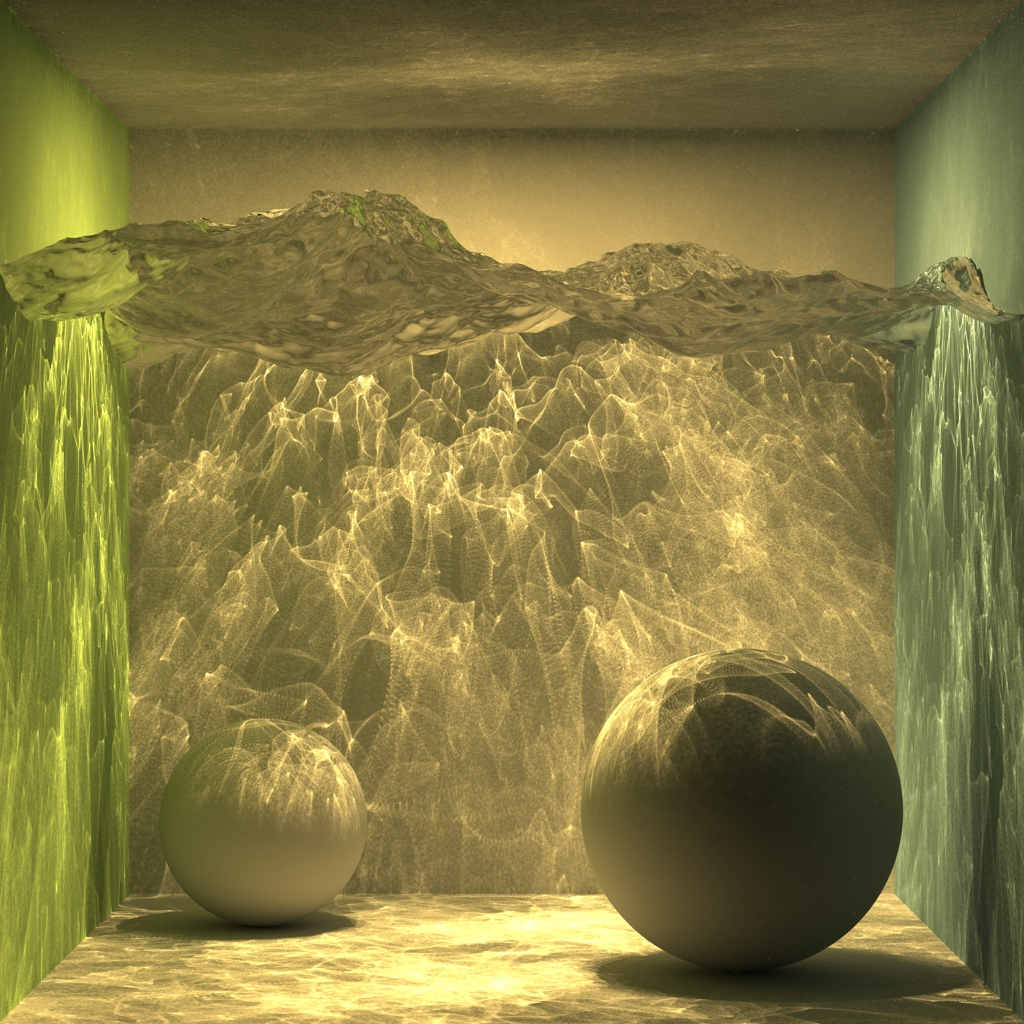
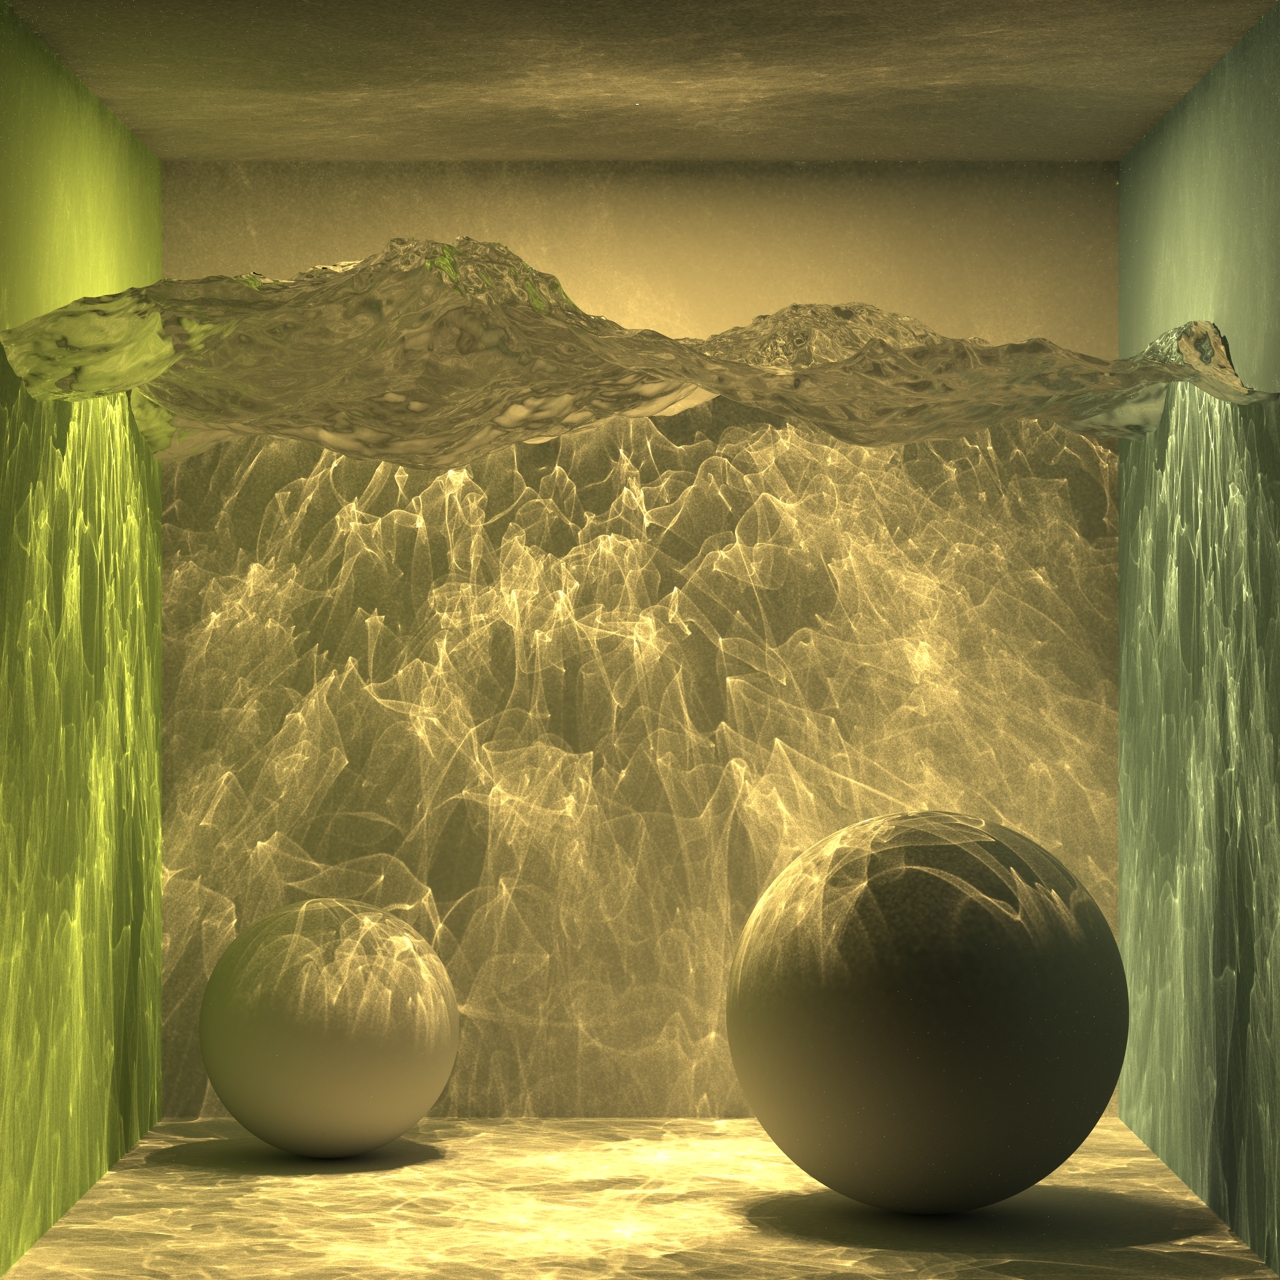
Update caustics image

diff --git a/README.md b/README.md
@@ -10,12 +10,8 @@ This is a physically based renderer with Path Tracing and Photon Mapping.
   <img src="renders/quadric.jpg" alt="Path traced render of scene with only quadric surfaces" title="Path traced render of scene with only quadric surfaces" />
   <a rel="license" href="https://creativecommons.org/licenses/by/4.0/"></a>
 </div>
-<div about="renders/c1_64sqrtspp_report_4k_flintglass_downscaled.png">
-  <img src="renders/c1_64sqrtspp_report_4k_flintglass_downscaled.png" alt="Path Traced, Scene IOR 1.75" title="Path Traced, Scene IOR 1.75" />
-  <a rel="license" href="https://creativecommons.org/licenses/by/4.0/"></a>
-</div>
 <div about="renders/caustics.jpg">
-  <img src="renders/caustics.jpg" alt="Photon mapped render of caustics, 26 342 158 triangles. Original scene by Benedikt Bitterli." title="Photon mapped render of caustics, 26 342 158 triangles. Original scene by Benedikt Bitterli." />
+  <img src="renders/caustics.jpg" alt="Photon mapped render of caustics, 6 583 508 triangles. Original scene by Benedikt Bitterli." title="Photon mapped render of caustics, 6 583 508 triangles. Original scene by Benedikt Bitterli." />
   <a rel="license" href="https://creativecommons.org/licenses/by/4.0/"></a>
 </div>
 
